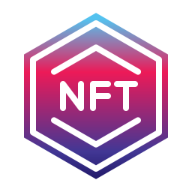
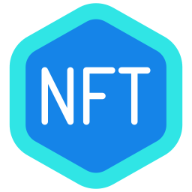
Add files via upload

diff --git a/index.html b/index.html
@@ -3,11 +3,16 @@
 <head>
     <meta charset="UTF-8">
     <meta name="viewport" content="width=device-width, initial-scale=1.0">
+    <!-- Favicon -->
+    <link rel="apple-touch-icon" sizes="180x180" href="/apple-touch-icon.png">
+    <link rel="icon" type="image/png" sizes="32x32" href="/favicon-32x32.png">
+    <link rel="icon" type="image/png" sizes="16x16" href="/favicon-16x16.png">
+    <link rel="manifest" href="/site.webmanifest">
     <!-- Font awesome CDN -->
     <link rel="stylesheet" href="https://cdnjs.cloudflare.com/ajax/libs/font-awesome/6.7.1/css/all.min.css">
     <!-- CSS -->
     <link rel="stylesheet" href="css/style.min.css">
-    <title>Document</title>
+    <title>NFT Marketplace</title>
 </head>
 <body>
 
